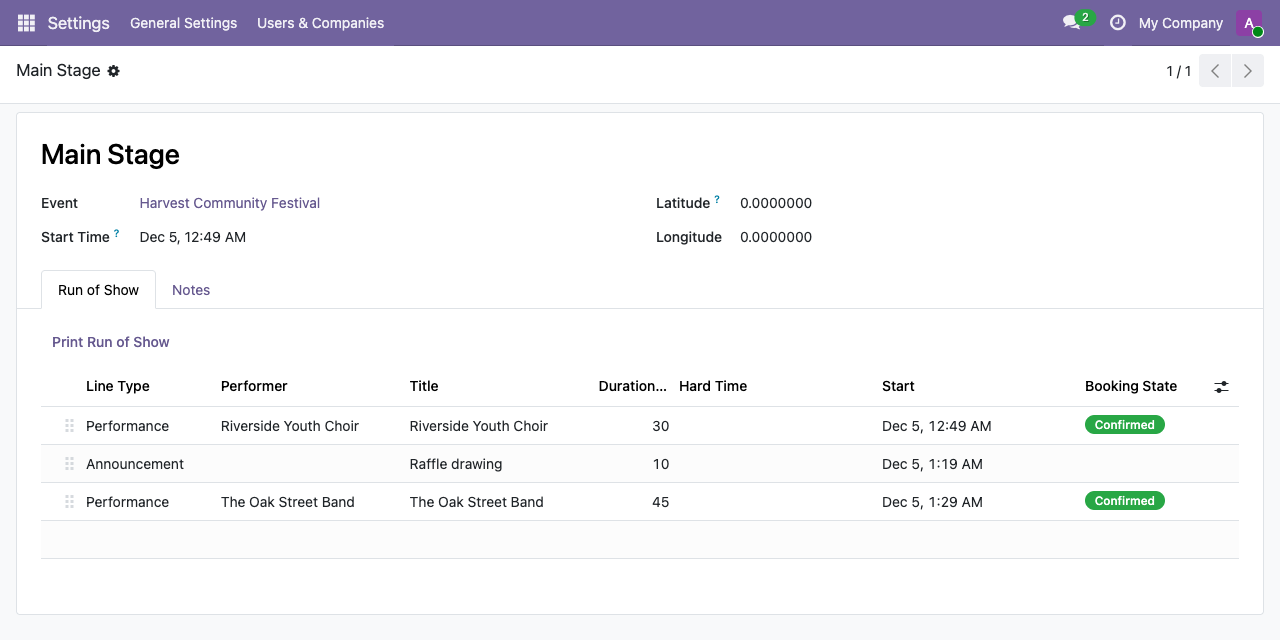
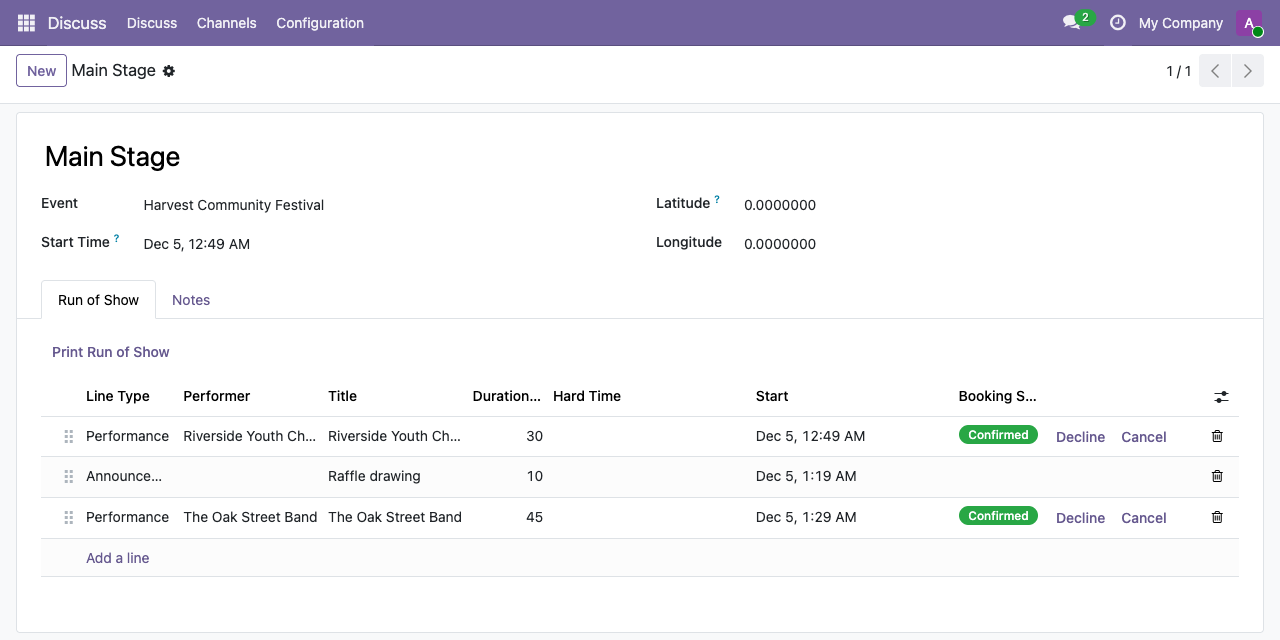
nonprofit_event_entertainment: add booking buttons to the Run of Show
The confirm, decline and cancel actions existed with no way to reach them.
Add them to the stage's Run of Show for Entertainment users, plus Re-invite
so a mistaken click can be undone. Teach them in the Stage Manager course.

diff --git a/nonprofit_event_entertainment/tests/test_event_run_of_show_line.py b/nonprofit_event_entertainment/tests/test_event_run_of_show_line.py
@@ -1,8 +1,10 @@
 # -*- coding: utf-8 -*-
 from datetime import datetime
 
+from lxml import etree
+
 from odoo.exceptions import UserError, ValidationError
-from odoo.tests import tagged
+from odoo.tests import new_test_user, tagged
 
 from .common import EventEntertainmentCommon
 
@@ -110,3 +112,34 @@ class TestEventRunOfShowLine(EventEntertainmentCommon):
         line.action_cancel()
 
         self.assertEqual(line.booking_state, "cancelled")
+
+    def test_reinvite_reopens_a_declined_booking(self):
+        line = self._make_line()
+        line.action_decline()
+
+        line.action_reinvite()
+
+        self.assertEqual(line.booking_state, "invited")
+        with self.assertRaises(UserError):
+            line.action_reinvite()  # already invited
+
+    def test_stage_form_offers_booking_buttons_to_entertainment_users(self):
+        def buttons_for(*groups):
+            user = new_test_user(
+                self.env, login="ros_" + groups[-1].replace(".", "_"),
+                groups=",".join(groups))
+            form = self.env["event.entertainment.stage"].with_user(
+                user).get_view(view_type="form")
+            return set(etree.fromstring(form["arch"]).xpath(
+                "//field[@name='line_ids']//button/@name"))
+
+        self.assertEqual(
+            buttons_for(
+                "base.group_user",
+                "nonprofit_event_entertainment.group_entertainment_user"),
+            {"action_confirm", "action_decline", "action_cancel",
+             "action_reinvite"})
+        # Read-only roles could click these only to hit an Access Error.
+        self.assertFalse(buttons_for(
+            "base.group_user",
+            "nonprofit_event_entertainment.group_entertainment_viewer"))

diff --git a/nonprofit_event_entertainment/models/event_run_of_show_line.py b/nonprofit_event_entertainment/models/event_run_of_show_line.py
@@ -142,3 +142,10 @@ class EventRunOfShowLine(models.Model):
 
     def action_cancel(self):
         self.write({"booking_state": "cancelled"})
+
+    def action_reinvite(self):
+        for line in self:
+            if line.booking_state not in ("declined", "cancelled"):
+                raise UserError(_(
+                    "Only a declined or cancelled booking can be re-invited."))
+        self.write({"booking_state": "invited"})

diff --git a/nonprofit_event_entertainment/__manifest__.py b/nonprofit_event_entertainment/__manifest__.py
@@ -1,7 +1,7 @@
 # -*- coding: utf-8 -*-
 {
     "name": "Event Entertainment",
-    "version": "19.0.1.1.0",
+    "version": "19.0.1.1.1",
     "category": "Marketing/Events",
     "summary": "A reusable performer roster, per-stage scheduling, and a printable Run of Show",
     "description": """
